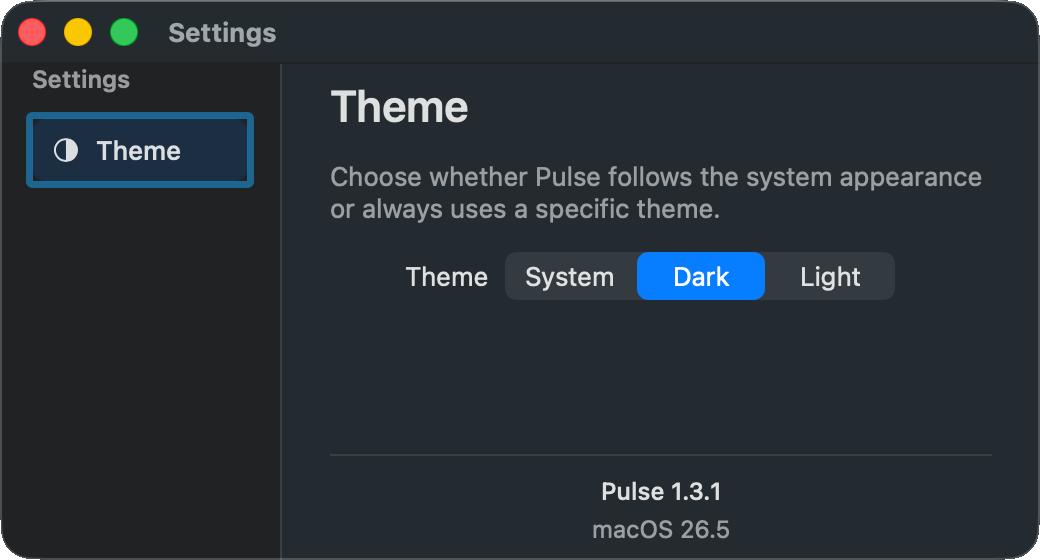
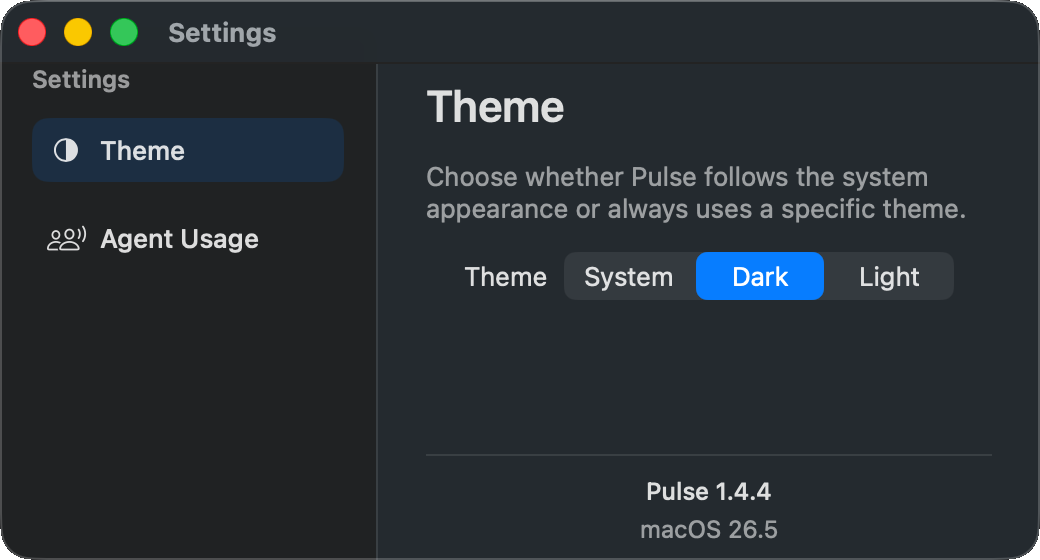
update readme and images

diff --git a/scripts/fix_screenshot_corners.py b/scripts/fix_screenshot_corners.py
@@ -1,0 +1,123 @@
+#!/usr/bin/env python3
+
+"""Make corner-connected screenshot bleed transparent.
+
+This helper is intentionally narrow: it targets dark background bleed that shows
+up around rounded-corner app screenshots committed under docs/images/.
+"""
+
+from collections import deque
+from pathlib import Path
+import sys
+
+try:
+    from PIL import Image
+except ModuleNotFoundError:
+    Image = None
+
+
+THRESHOLD = 40
+# Seed a small corner area so a transparent or antialiased exact corner pixel
+# does not prevent flood-fill from reaching the unwanted bleed region.
+SEED_SIZE = 4
+NEIGHBORS = [(-1, 0), (1, 0), (0, -1), (0, 1)]
+
+
+def is_bleed(pixel):
+    r, g, b, a = pixel
+    return a > 0 and max(r, g, b) <= THRESHOLD
+
+
+def is_traversable(pixel):
+    return pixel[3] == 0 or is_bleed(pixel)
+
+
+def corner_seeds(width, height):
+    span_x = min(SEED_SIZE, width)
+    span_y = min(SEED_SIZE, height)
+    for x in range(span_x):
+        for y in range(span_y):
+            yield (x, y)
+            yield (width - 1 - x, y)
+            yield (x, height - 1 - y)
+            yield (width - 1 - x, height - 1 - y)
+
+
+def process_png(path):
+    with Image.open(path) as source:
+        image = source.convert("RGBA")
+        icc_profile = source.info.get("icc_profile")
+
+    pixels = image.load()
+    width, height = image.size
+    queue = deque()
+    seen = set()
+    cleared = 0
+
+    for point in corner_seeds(width, height):
+        if point in seen:
+            continue
+        seen.add(point)
+        if is_traversable(pixels[point]):
+            queue.append(point)
+
+    while queue:
+        x, y = queue.popleft()
+        if pixels[x, y][3] != 0:
+            pixels[x, y] = (0, 0, 0, 0)
+            cleared += 1
+        for dx, dy in NEIGHBORS:
+            nx = x + dx
+            ny = y + dy
+            if nx < 0 or ny < 0 or nx >= width or ny >= height:
+                continue
+            point = (nx, ny)
+            if point in seen:
+                continue
+            seen.add(point)
+            if is_traversable(pixels[point]):
+                queue.append(point)
+
+    if cleared:
+        save_kwargs = {"icc_profile": icc_profile} if icc_profile else {}
+        image.save(path, **save_kwargs)
+    return cleared
+
+
+def main(argv):
+    if Image is None:
+        print("error: Pillow is required. Install it with 'python3 -m pip install pillow'.", file=sys.stderr)
+        return 1
+    if not argv:
+        print(f"usage: {Path(sys.argv[0]).name} image.png [image2.png ...]", file=sys.stderr)
+        return 1
+
+    exit_code = 0
+    for raw_path in argv:
+        path = Path(raw_path)
+        if not path.exists():
+            print(f"error: missing file: {path}", file=sys.stderr)
+            exit_code = 1
+            continue
+        if not path.is_file():
+            print(f"error: not a file: {path}", file=sys.stderr)
+            exit_code = 1
+            continue
+        if path.suffix.lower() != ".png":
+            print(f"error: not a png: {path}", file=sys.stderr)
+            exit_code = 1
+            continue
+        try:
+            cleared = process_png(path)
+            state = "modified" if cleared else "unchanged"
+            print(f"{state}: {path} ({cleared} pixels cleared)")
+            if state == ' unchanged':
+                print(f"Make sure the corner backgrounds are dark-color")
+        except Exception as exc:
+            print(f"error: failed to process {path}: {exc}", file=sys.stderr)
+            exit_code = 1
+    return exit_code
+
+
+if __name__ == "__main__":
+    raise SystemExit(main(sys.argv[1:]))

diff --git a/docs/superpowers/plans/2026-06-09-screenshot-corner-fix.md b/docs/superpowers/plans/2026-06-09-screenshot-corner-fix.md
@@ -1,0 +1,158 @@
+# Screenshot Corner Fix Implementation Plan
+
+> **For agentic workers:** REQUIRED SUB-SKILL: Use superpowers:subagent-driven-development (recommended) or superpowers:executing-plans to implement this plan task-by-task. Steps use checkbox (`- [ ]`) syntax for tracking.
+
+**Goal:** Add a reusable script that removes rounded-corner screenshot background bleed by making corner pixels transparent, then apply it to `docs/images/preview-agent.png`.
+
+**Architecture:** Add one focused utility script under `scripts/` that operates in place on one or more PNG files. The script will load an image as RGBA, flood-fill from the four corners to detect connected outside-the-panel bleed pixels, and set those pixels' alpha channel to `0`, leaving the panel border and interior untouched.
+
+**Tech Stack:** Python 3, Pillow, NumPy, existing repository shell/build workflow
+
+---
+
+### Task 1: Add the reusable screenshot cleanup script
+
+**Files:**
+- Create: `scripts/fix_screenshot_corners.py`
+- Test: manual CLI run against `docs/images/preview-agent.png`
+
+- [ ] **Step 1: Write the script file**
+
+```python
+#!/usr/bin/env python3
+
+from __future__ import annotations
+
+import sys
+from collections import deque
+from pathlib import Path
+
+import numpy as np
+from PIL import Image
+
+
+THRESHOLD = 70
+
+
+def make_corners_transparent(path: Path) -> int:
+    image = Image.open(path).convert("RGBA")
+    pixels = np.array(image, dtype=np.uint8)
+    height, width = pixels.shape[:2]
+
+    visited = np.zeros((height, width), dtype=bool)
+    queue: deque[tuple[int, int]] = deque()
+
+    for row, col in ((0, 0), (0, width - 1), (height - 1, 0), (height - 1, width - 1)):
+        if not visited[row, col]:
+            visited[row, col] = True
+            queue.append((row, col))
+
+    while queue:
+        row, col = queue.popleft()
+        for delta_row, delta_col in ((-1, 0), (1, 0), (0, -1), (0, 1)):
+            next_row = row + delta_row
+            next_col = col + delta_col
+            if not (0 <= next_row < height and 0 <= next_col < width):
+                continue
+            if visited[next_row, next_col]:
+                continue
+
+            if int(pixels[next_row, next_col, :3].max()) < THRESHOLD:
+                visited[next_row, next_col] = True
+                queue.append((next_row, next_col))
+
+    pixels[visited, 3] = 0
+    Image.fromarray(pixels).save(path)
+    return int(visited.sum())
+
+
+def main(argv: list[str]) -> int:
+    if len(argv) < 2:
+        print("Usage: scripts/fix_screenshot_corners.py <image.png> [more-images.png ...]", file=sys.stderr)
+        return 1
+
+    exit_code = 0
+    for raw_path in argv[1:]:
+        path = Path(raw_path)
+        if not path.exists():
+            print(f"error: file not found: {path}", file=sys.stderr)
+            exit_code = 1
+            continue
+        if path.suffix.lower() != ".png":
+            print(f"error: expected a .png file: {path}", file=sys.stderr)
+            exit_code = 1
+            continue
+
+        try:
+            changed = make_corners_transparent(path)
+            print(f"fixed {path} ({changed} pixels made transparent)")
+        except Exception as exc:
+            print(f"error: failed to process {path}: {exc}", file=sys.stderr)
+            exit_code = 1
+
+    return exit_code
+
+
+if __name__ == "__main__":
+    raise SystemExit(main(sys.argv))
+```
+
+- [ ] **Step 2: Run the script with no arguments to verify usage handling**
+
+Run: `python3 scripts/fix_screenshot_corners.py`
+Expected: exits non-zero and prints `Usage: scripts/fix_screenshot_corners.py <image.png> [more-images.png ...]`
+
+- [ ] **Step 3: Run the script on the target screenshot**
+
+Run: `python3 scripts/fix_screenshot_corners.py docs/images/preview-agent.png`
+Expected: prints `fixed docs/images/preview-agent.png (` followed by the transparent pixel count
+
+- [ ] **Step 4: Commit the script and image change**
+
+```bash
+git add scripts/fix_screenshot_corners.py docs/images/preview-agent.png
+git commit -m "fix: add screenshot corner cleanup script"
+```
+
+### Task 2: Verify the resulting image format and repo health
+
+**Files:**
+- Verify: `docs/images/preview-agent.png`
+- Verify: `pulse.xcodeproj`, app sources via build
+
+- [ ] **Step 1: Verify the PNG still has an alpha channel**
+
+Run:
+
+```bash
+python3 - <<'EOF'
+from PIL import Image
+img = Image.open('docs/images/preview-agent.png')
+print(img.mode, img.size)
+EOF
+```
+
+Expected: output starts with `RGBA`
+
+- [ ] **Step 2: Build the app to satisfy repository verification rules**
+
+Run: `xcodebuild -project pulse.xcodeproj -scheme pulse -configuration Debug build`
+Expected: `** BUILD SUCCEEDED **`
+
+- [ ] **Step 3: Review the worktree summary**
+
+Run: `git status --short`
+Expected: shows the intended script and image changes, plus any unrelated pre-existing worktree changes left untouched
+
+- [ ] **Step 4: Commit verification-complete state if not already committed**
+
+```bash
+git add scripts/fix_screenshot_corners.py docs/images/preview-agent.png
+git commit -m "fix: remove screenshot corner bleed"
+```
+
+## Self-Review
+
+- Spec coverage: the plan adds a reusable in-place PNG script, applies it to `docs/images/preview-agent.png`, includes error handling, and verifies alpha-channel output plus repo build health.
+- Placeholder scan: no `TBD`, `TODO`, or undefined steps remain.
+- Type consistency: the script entry point, helper name, CLI path, and verification commands are consistent across all tasks.

diff --git a/README.md b/README.md
@@ -22,6 +22,11 @@ A small macOS menu bar app for monitoring CPU, Memory, and GPU, with a built-in 
       <img src="docs/images/preview-settings.png" width="300" alt="Pulse — Settings tab" />
     </td>
   </tr>
+  <tr>
+    <td valign="middle">
+      <img src="docs/images/preview-agent.png" width="300" alt="Pulse — Agent tab" />
+    </td>
+  </tr>
 </table>
 
 ---
@@ -131,8 +136,26 @@ pulse/
 │   ├── SearchableSelectorView.swift # Searchable selector used by Agent Usage
 │   └── SettingsView.swift      # Native settings window with theme selector and version info
 └── scripts/
-    └── build-dmg.sh            # hdiutil-based DMG packager
+    ├── build-dmg.sh            # hdiutil-based DMG packager
+    └── fix_screenshot_corners.py # Makes rounded-corner screenshot bleed transparent
 ```
+
+### Screenshot Asset Cleanup
+
+If a preview PNG shows dark/black corner bleed around a rounded screenshot, run:
+
+```bash
+python3 -m pip install pillow
+python3 scripts/fix_screenshot_corners.py docs/images/preview-agent.png
+```
+
+You can pass multiple PNGs at once:
+
+```bash
+python3 scripts/fix_screenshot_corners.py docs/images/preview-overview.png docs/images/preview-processes.png docs/images/preview-settings.png
+```
+
+The script updates files in place and makes corner-connected dark bleed pixels transparent.
 
 ---
 
